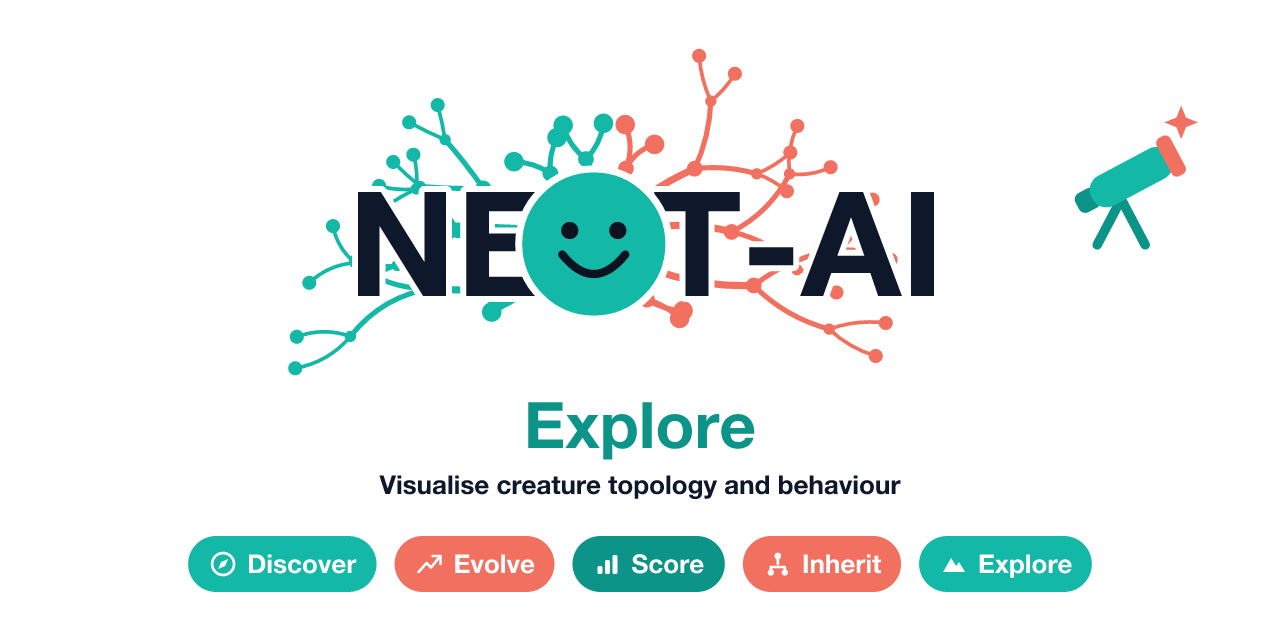
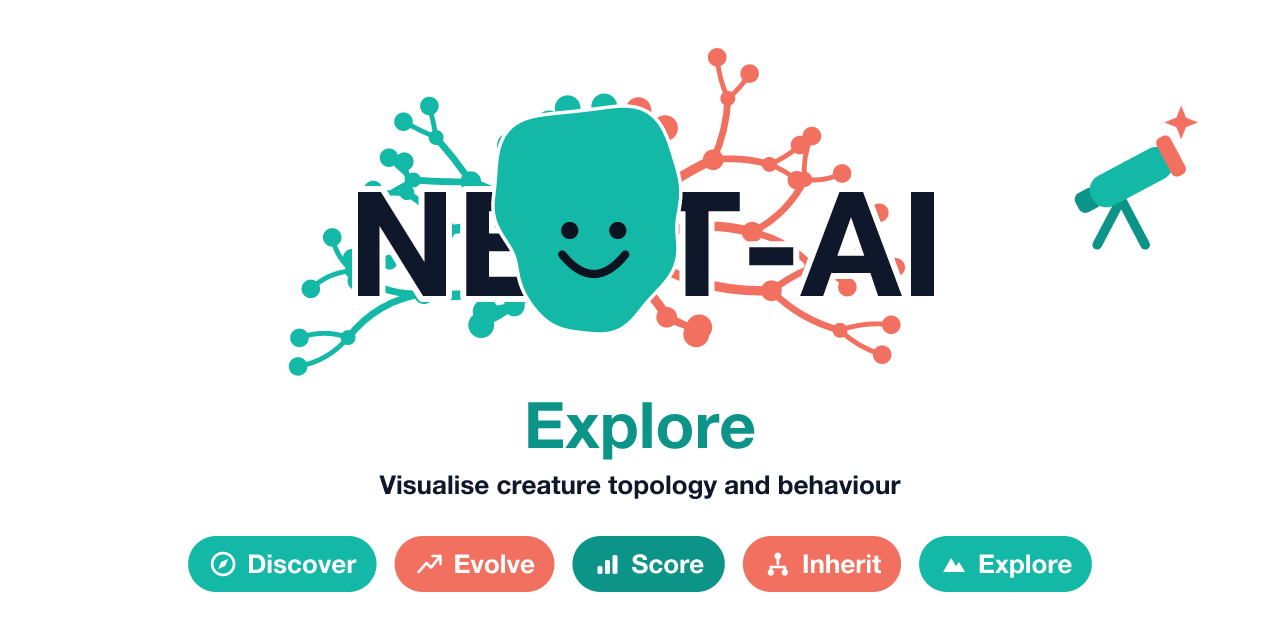
fix: restore the organic neuron A in family social previews.
Closes #3781 — redraw the soma as an irregular cell body with dendrite
trunks in the SVG generator, keeping transparent backgrounds.

diff --git a/scripts/brand/preview_art.ts b/scripts/brand/preview_art.ts
@@ -1,11 +1,12 @@
 /**
- * Issue #3764 — the NEAT-AI family social previews, drawn as SVG.
+ * Issue #3764 / #3781 — the NEAT-AI family social previews, drawn as SVG.
  *
- * The family look lives here once: the smiley-neuron soma standing in for the
- * "A" of NEAT-AI, the teal/coral dendrite tree behind it, the sub-project
- * subtitle, and the shared capability pills. Every sibling preview is the same
- * lockup with its own subtitle, descriptor, and motif, so the ten images stay
- * recognisably one family instead of ten hand-tweaked drawings.
+ * The family look lives here once: the organic smiley-neuron soma standing in
+ * for the "A" of NEAT-AI (irregular cell body, tapering dendrite trunks, face),
+ * the teal/coral dendrite tree behind it, the sub-project subtitle, and the
+ * shared capability pills. Every sibling preview is the same lockup with its
+ * own subtitle, descriptor, and motif, so the ten images stay recognisably one
+ * family instead of ten hand-tweaked drawings.
  *
  * Two palettes render the same artwork:
  *
@@ -198,6 +199,30 @@ const PRIMARIES: Primary[] = [
 ];
 
 /**
+ * Issue #3781 — lobes on the cell body where dendrite trunks leave the soma.
+ * Encoded as polar bumps so the silhouette is one organic shape, not a disc
+ * with separate finger-like appendages.
+ *
+ * Angles are SVG degrees (0 = right, 90 = down). `length` is extra radius as a
+ * fraction of the soma radius; `spread` is the angular width in radians.
+ */
+interface SomaLobe {
+  angle: number;
+  length: number;
+  spread: number;
+}
+
+const SOMA_LOBES: SomaLobe[] = [
+  { angle: -98, length: 0.58, spread: 0.30 },
+  { angle: -66, length: 0.74, spread: 0.26 },
+  { angle: -128, length: 0.70, spread: 0.26 },
+  { angle: -36, length: 0.40, spread: 0.24 },
+  { angle: -162, length: 0.38, spread: 0.24 },
+  { angle: 78, length: 0.20, spread: 0.28 },
+  { angle: 112, length: 0.22, spread: 0.28 },
+];
+
+/**
  * Cap how steeply a branch may point downward. Below the wordmark sits the
  * subtitle, so the tree fans sideways there instead of diving into the text.
  */
@@ -328,12 +353,15 @@ function dendrites(
   for (const primary of PRIMARIES) {
     const angle = primary.angle + (random() - 0.5) * 12;
     const radians = (angle * Math.PI) / 180;
+    // Issue #3781: start near the soma surface so branches leave the cell
+    // body rather than radiating from behind a plain circle.
+    const startR = radius * 1.02;
     grow(
-      cx + Math.cos(radians) * radius * 0.35,
-      cy + Math.sin(radians) * radius * 0.35,
+      cx + Math.cos(radians) * startR,
+      cy + Math.sin(radians) * startR,
       angle,
       primary.length * (0.9 + random() * 0.2),
-      11,
+      16,
       primary.depth,
       (random() - 0.5) * 0.5,
       primary.coral ? palette.coral : palette.teal,
@@ -381,13 +409,79 @@ function dendrites(
   return `<g ${fit}><g>${halo}</g><g>${art}</g></g>`;
 }
 
-/** The smiley soma that stands in for the "A" of NEAT-AI. */
+/**
+ * Polar radius of the lumpy cell body (Issue #3781). Harmonics keep the
+ * silhouette organic without a random roll, so every preview matches.
+ */
+function somaRadiusAt(theta: number, r: number): number {
+  let rr = r * (
+    1 +
+    0.06 * Math.sin(3 * theta + 0.55) +
+    0.035 * Math.sin(5 * theta + 1.35) +
+    0.025 * Math.cos(2 * theta - 0.65)
+  );
+  for (const lobe of SOMA_LOBES) {
+    const lobeTheta = (lobe.angle * Math.PI) / 180;
+    let delta = theta - lobeTheta;
+    while (delta > Math.PI) delta -= Math.PI * 2;
+    while (delta < -Math.PI) delta += Math.PI * 2;
+    const bump = Math.exp(
+      -(delta * delta) / (2 * lobe.spread * lobe.spread),
+    );
+    rr += r * lobe.length * bump;
+  }
+  return rr;
+}
+
+/** Closed quadratic curve through `points`, smooth at the wrap-around. */
+function closedCurvePath(
+  points: Array<{ x: number; y: number }>,
+): string {
+  const mid = (
+    a: { x: number; y: number },
+    b: { x: number; y: number },
+  ) => ({ x: (a.x + b.x) / 2, y: (a.y + b.y) / 2 });
+  const start = mid(points[points.length - 1], points[0]);
+  let d = `M${n(start.x)} ${n(start.y)}`;
+  for (let i = 0; i < points.length; i++) {
+    const curr = points[i];
+    const next = points[(i + 1) % points.length];
+    const m = mid(curr, next);
+    d += `Q${n(curr.x)} ${n(curr.y)} ${n(m.x)} ${n(m.y)}`;
+  }
+  return `${d}Z`;
+}
+
+/** Irregular cell-body outline — a perturbed circle, not a disc. */
+function organicBlobPath(cx: number, cy: number, r: number): string {
+  const steps = 64;
+  const points: Array<{ x: number; y: number }> = [];
+  for (let i = 0; i < steps; i++) {
+    const theta = (i / steps) * Math.PI * 2;
+    const rr = somaRadiusAt(theta, r);
+    points.push({
+      x: cx + Math.cos(theta) * rr,
+      y: cy + Math.sin(theta) * rr,
+    });
+  }
+  return closedCurvePath(points);
+}
+
+/**
+ * The organic smiley soma that stands in for the "A" of NEAT-AI (Issue #3781).
+ *
+ * Close match to the pre-#3764 artwork: irregular teal cell body with dendrite
+ * trunks growing out of it, plus a smiley face. Not a plain filled circle.
+ */
 function soma(cx: number, cy: number, r: number, palette: Palette): string {
+  const blob = organicBlobPath(cx, cy, r);
+  const halo =
+    `<path d="${blob}" fill="${palette.halo}" stroke="${palette.halo}" ` +
+    `stroke-width="7" stroke-linejoin="round"/>`;
+  const fill = `<path d="${blob}" fill="${palette.teal}"/>`;
   const eyeR = r * 0.115;
   const eyeY = cy - r * 0.18;
-  return [
-    `<circle cx="${n(cx)}" cy="${n(cy)}" r="${n(r)}" fill="${palette.teal}" `,
-    `stroke="${palette.halo}" stroke-width="7"/>`,
+  const face = [
     `<circle cx="${n(cx - r * 0.32)}" cy="${n(eyeY)}" r="${
       n(eyeR)
     }" fill="${SOMA_DETAIL}"/>`,
@@ -401,6 +495,7 @@ function soma(cx: number, cy: number, r: number, palette: Palette): string {
       n(r * 0.11)
     }" stroke-linecap="round"/>`,
   ].join("");
+  return `${halo}${fill}${face}`;
 }
 
 interface PillSpec {

diff --git a/test/docs/BrandPreviewSvg.ts b/test/docs/BrandPreviewSvg.ts
@@ -69,6 +69,25 @@ Deno.test("each preview carries its own subtitle and descriptor", () => {
   }
 });
 
+Deno.test("the soma is an organic path, not a plain circle", () => {
+  const svg = buildPreviewSvg(HUB, paletteFor("transparent"), stubMeasure);
+  const teal = paletteFor("transparent").teal;
+  assert(
+    !new RegExp(`<circle[^>]*fill="${teal}"[^>]*stroke=`).test(svg),
+    "Issue #3781: the A must not be a plain filled circle",
+  );
+  assert(
+    new RegExp(`<path d="M[^"]{80,}" fill="${teal}"`).test(svg),
+    "Issue #3781: the soma cell body must be an organic filled path",
+  );
+  // Smiley face: two filled eyes plus a stroke smile.
+  assert(
+    [...svg.matchAll(/fill="#0B1220"/g)].length >= 2,
+    "Issue #3781: soma must keep the smiley-face eyes",
+  );
+  assertStringIncludes(svg, `stroke="#0B1220"`);
+});
+
 Deno.test("the same spec renders identically every time", () => {
   const first = buildPreviewSvg(HUB, paletteFor("transparent"), stubMeasure);
   const second = buildPreviewSvg(HUB, paletteFor("transparent"), stubMeasure);
